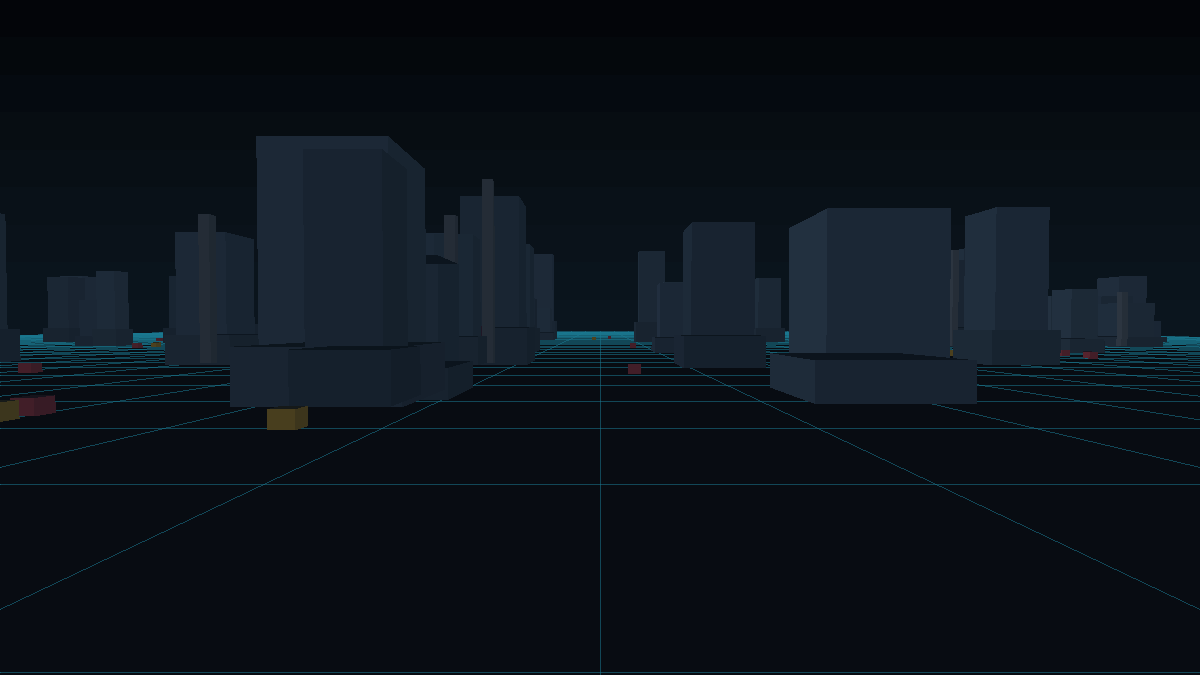
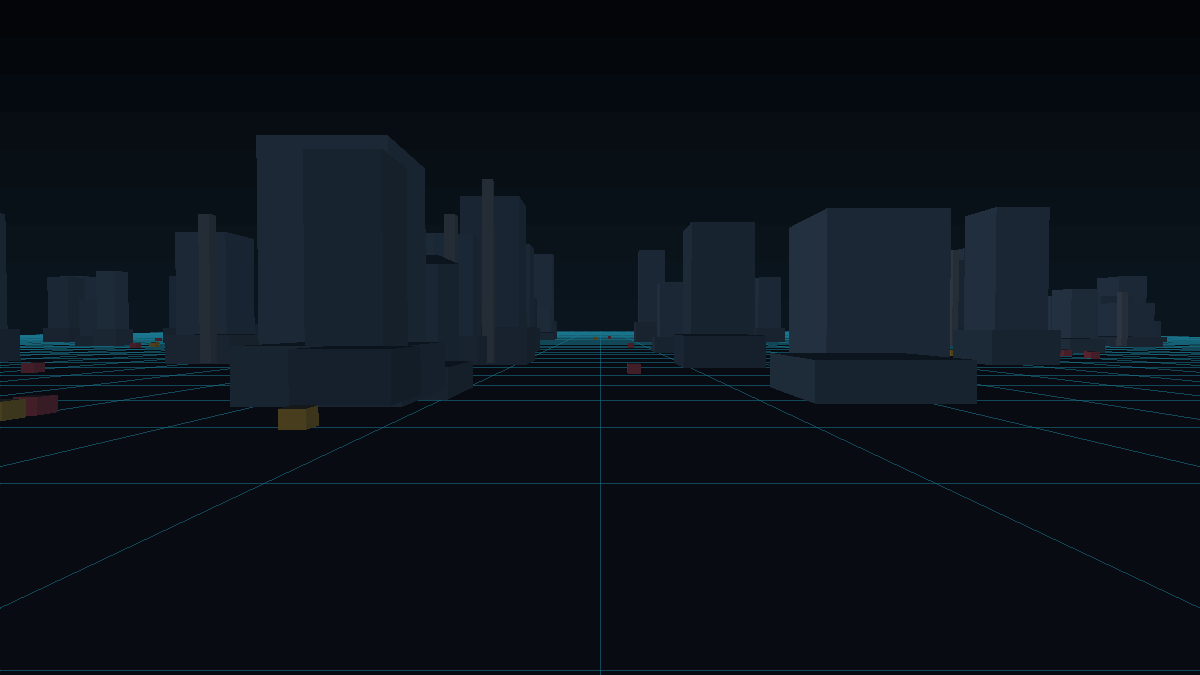
cidade: o céu com gradiente também no caminho WebGL2
Os shaders de céu existiam mas não eram usados: no WebGL2 o fundo ficava no
`clearColor` chapado, enquanto o caminho software já desenhava o gradiente —
os dois caminhos deixariam de ser a mesma cena.

- VS_CEU/FS_CEU passam a ser compilados em iniciarGl() e desenhados no início
  do quadro (quad em NDC, sem teste nem escrita de profundidade), com uTopo e
  uHorizonte vindos das MESMAS constantes do caminho software;
- atributos instanciados são desligados ao fim do quadro, já que o próximo
  começa pelo céu e pelo chão;
- desenhos por quadro vão de 2 para 3 (céu, chão, cena instanciada);
- stub de WebGL dos testes ganha disable() e disableVertexAttribArray() e a
  asserção passa a exigir céu e chão em todo quadro.

diff --git a/nucleo/js/apps/game.js b/nucleo/js/apps/game.js
@@ -312,6 +312,7 @@ export function createGame({ canvas, engine, settings, os, toast, camera = null,
         ground: subirBuffer(gl, new Float32Array([-1, -1, 1, -1, 1, 1, -1, -1, 1, 1, -1, 1]), gl.STATIC_DRAW, 6),
         scene: compilarPrograma(gl, VS_SCENE, FS_SCENE),
         groundProg: compilarPrograma(gl, VS_GROUND, FS_GROUND),
+        ceu: compilarPrograma(gl, VS_CEU, FS_CEU),      // mesmo quad do chão
         instBuf: gl.createBuffer()
       };
       gl.bindBuffer(gl.ARRAY_BUFFER, rec.instBuf);
@@ -450,6 +451,20 @@ export function createGame({ canvas, engine, settings, os, toast, camera = null,
     gl.cullFace(gl.BACK);
     gl.frontFace(gl.CCW);                 // contrato explícito com makeCubeData()
 
+    // Céu primeiro, sem teste nem escrita de profundidade: um quad em NDC cobre a
+    // tela e o gradiente usa os MESMOS números que o caminho software (CEU_RGB,
+    // HORIZONTE_RGB). Sem este desenho, o WebGL mostraria `clearColor` chapado e os
+    // dois caminhos não seriam a mesma cena.
+    gl.disable(gl.DEPTH_TEST);
+    gl.useProgram(rec.ceu);
+    gl.uniform3f(rec.ceu.u.uTopo, CEU_RGB[0], CEU_RGB[1], CEU_RGB[2]);
+    gl.uniform3f(rec.ceu.u.uHorizonte, HORIZONTE_RGB[0], HORIZONTE_RGB[1], HORIZONTE_RGB[2]);
+    gl.bindBuffer(gl.ARRAY_BUFFER, rec.ground.buf);
+    gl.enableVertexAttribArray(0);
+    gl.vertexAttribPointer(0, 2, gl.FLOAT, false, 0, 0);
+    gl.drawArrays(gl.TRIANGLES, 0, rec.ground.count);
+    gl.enable(gl.DEPTH_TEST);
+
     gl.useProgram(rec.groundProg);
     gl.uniformMatrix4fv(rec.groundProg.u.uVP, false, vp);
     gl.uniform1f(rec.groundProg.u.uScale, CHAO_LADO / 2);
@@ -474,7 +489,10 @@ export function createGame({ canvas, engine, settings, os, toast, camera = null,
     gl.enableVertexAttribArray(2); gl.vertexAttribPointer(2, 4, gl.FLOAT, false, 32, 0); gl.vertexAttribDivisor(2, 1);
     gl.enableVertexAttribArray(3); gl.vertexAttribPointer(3, 4, gl.FLOAT, false, 32, 16); gl.vertexAttribDivisor(3, 1);
     if (instances) gl.drawArraysInstanced(gl.TRIANGLES, 0, rec.cube.count, instances);
-    drawCalls = 2;
+    // Atributos instanciados ficam desligados ao fim do quadro: o próximo começa pelo
+    // céu e pelo chão, que não os consomem.
+    gl.disableVertexAttribArray(2); gl.disableVertexAttribArray(3);
+    drawCalls = 3;
     const erro = gl.getError();
     if (erro !== gl.NO_ERROR) throw new Error(`WebGL2 reportou erro ${erro} durante o desenho`);
   }
